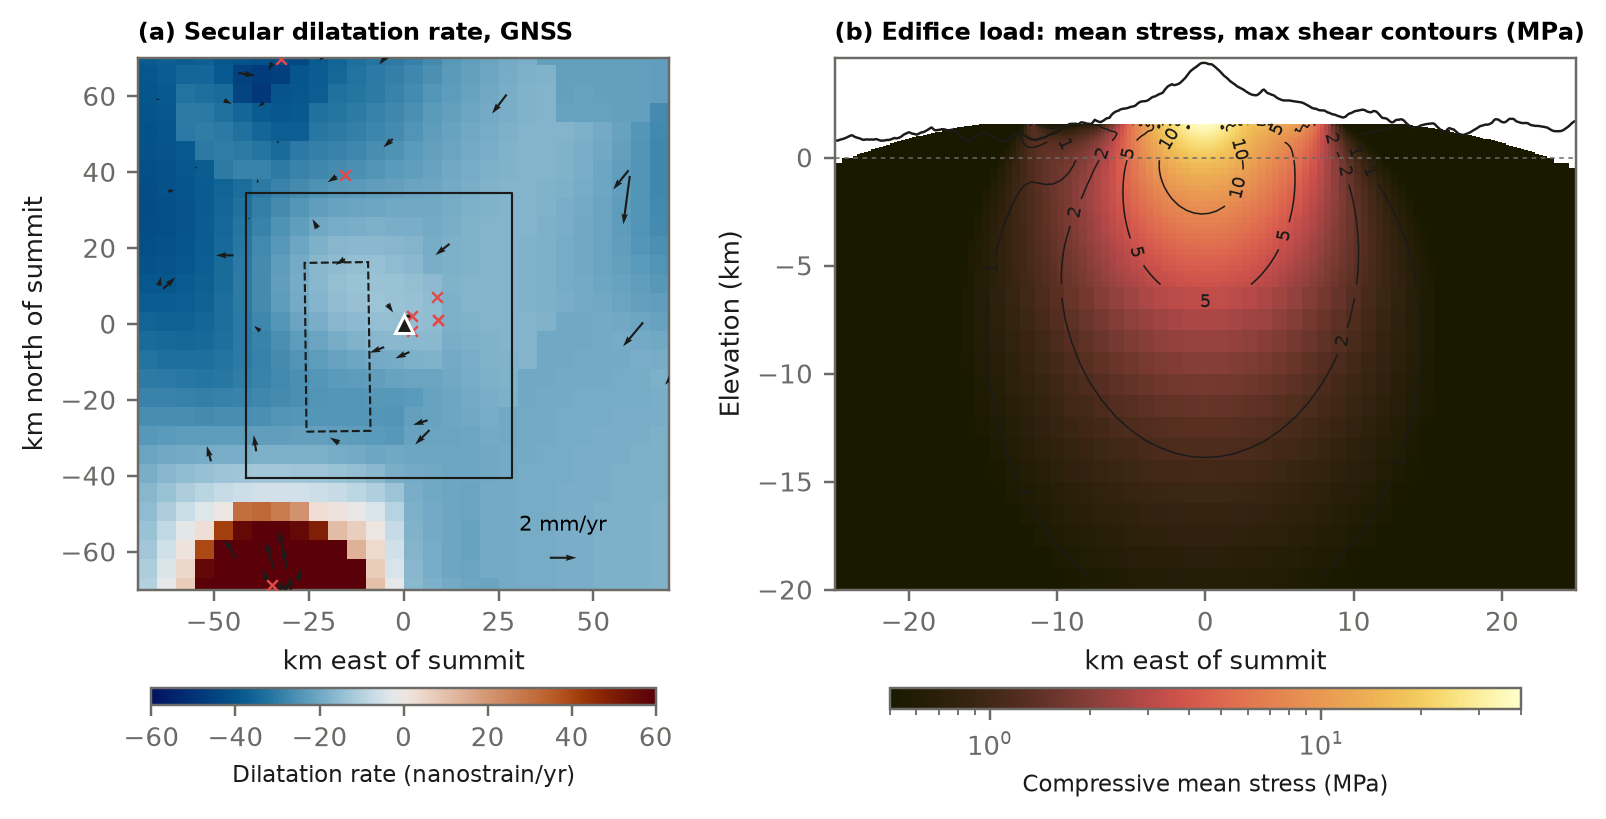
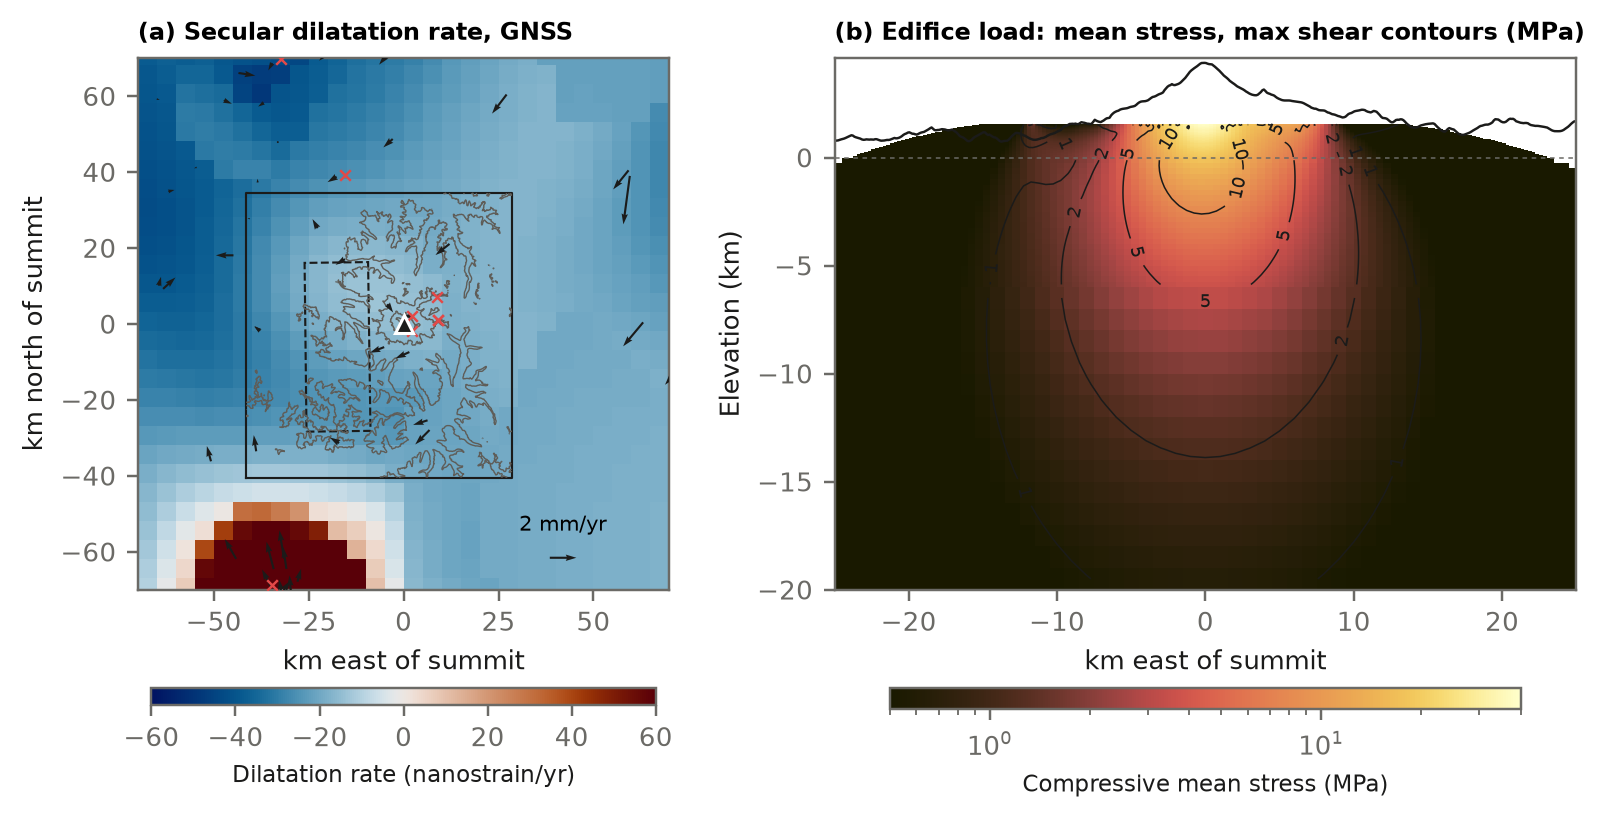
Figures: topography contours on the strain maps, contrast in the mass-movement map
Strain maps (Figs. 15-18) get thin grey elevation contours from the model surface.
The mass-movement map draws unknown-type events in charcoal on a lighter hillshade,
with framed legends.

Changed region(s): [[0.1557, 0.2442, 0.3113, 0.58]]

diff --git a/src/rainier3d/report/figures.py b/src/rainier3d/report/figures.py
@@ -740,6 +740,7 @@ def fig_strain(grid_nc, vel_csv, load_tree, tree, dom, gnss_cfg, path):
     )
     a.quiverkey(q, 0.8, 0.06, 2, "2 mm/yr", labelpos="N", fontproperties={"size": 7})
     a.scatter(rel[~ok, 0], rel[~ok, 1], marker="x", s=12, lw=0.8, color="#e34948", zorder=3)
+    _topo(a, dom, step_m=1000)
     a.plot(0, 0, marker="^", ms=6, color=INK, mec="white", zorder=4)
     a.set_xlim(-70, 70)
     a.set_ylim(-70, 70)
@@ -838,6 +839,25 @@ def _km(dom, x, y):
     return (np.asarray(x) - sx) / 1e3, (np.asarray(y) - sy) / 1e3
 
 
+_ELEV = {}
+
+
+def _topo(ax, dom, step_m=500, zorder=2.5):
+    """Thin topography contours (every step_m, darker every 1000 m) in km from the summit, from the model's
+    surface elevation, so that map views show where the edifice is."""
+    key = str(dom.path("processed"))
+    if key not in _ELEV:
+        _ELEV[key] = (
+            open_tree(dom.path("processed") / "model.zarr")["surface"].to_dataset()["elevation"].load()
+        )
+    e = _ELEV[key]
+    X, Y = _km(dom, *np.meshgrid(e.x.values, e.y.values))
+    lv = np.arange(step_m, 4500, step_m)
+    major = lv[lv % 1000 == 0]
+    ax.contour(X, Y, e.values, levels=lv[lv % 1000 != 0], colors="#8c8a84", linewidths=0.3, zorder=zorder)
+    ax.contour(X, Y, e.values, levels=major, colors="#5f5d58", linewidths=0.45, zorder=zorder)
+
+
 def fig_strain_wrsz(ds, dom, wrsz_xy, polygon_xy, path, spacing_m=5000):
     """(a) Maximum horizontal shear strain rate with the axes of maximum shortening; (b) right-lateral shear
     strain rate on vertical planes parallel to the WRSZ. GNSS field, the same at every depth (S25)."""
@@ -867,6 +887,7 @@ def fig_strain_wrsz(ds, dom, wrsz_xy, polygon_xy, path, spacing_m=5000):
         a = lev[var].values * 1e9
         kw = {"norm": norm} if norm else {"vmin": lim[0], "vmax": lim[1]}
         im = ax.pcolormesh(X, Y, a, cmap=cmap, shading="nearest", rasterized=True, **kw)
+        _topo(ax, dom, step_m=1000)
         ax.scatter(wx, wy, s=0.6, color=INK, alpha=0.35, lw=0, zorder=2)
         ax.fill(px, py, fill=False, ec=INK, lw=0.8, ls="--", zorder=3)
         _bars(
@@ -940,6 +961,7 @@ def fig_strain_edifice(ds, dom, tree, events, sel, path, z_slice=1000.0, half_km
         linewidths=1.0,
         zorder=4,
     )
+    _topo(a, dom)
     a.scatter(ekx[near], eky[near], s=5, facecolor="white", edgecolor=INK, lw=0.4, zorder=5)
     a.plot(0, 0, marker="^", ms=7, color=INK, mec="white", zorder=6)
     a.set_xlim(-half_km, half_km)
@@ -1058,6 +1080,7 @@ def fig_strain_bars_depth(ds, dom, path, elevations=(1000, 0, -2000, -5000, -100
         ok = np.isfinite(segs).all(axis=(1, 2)) & np.isfinite(vals)
         lc = LineCollection(segs[ok], array=vals[ok], cmap=cmc.batlow, norm=norm, linewidths=1.1, zorder=3)
         ax.add_collection(lc)
+        _topo(ax, dom, zorder=1)
         ax.plot(0, 0, marker="^", ms=5, color=INK, mec="white", zorder=5)
         ax.set_xlim(-half_km, half_km)
         ax.set_ylim(-half_km, half_km)
@@ -1094,7 +1117,7 @@ def fig_mass_movements(tree, flows, events, faults, zones, path):
     km = lambda g: g.affine_transform([1e-3, 0, 0, 1e-3, 0, 0])  # noqa: E731
     fig, axs = plt.subplots(1, 2, figsize=(7.2, 4.3), sharey=True, constrained_layout=True)
     for ax in axs:
-        ax.imshow(0.35 + 0.6 * hs, origin="lower", extent=ext, cmap="gray", vmin=0, vmax=1)
+        ax.imshow(0.6 + 0.4 * hs, origin="lower", extent=ext, cmap="gray", vmin=0, vmax=1)
         ax.set_xlim(ext[:2])
         ax.set_ylim(ext[2:])
         ax.set_aspect("equal")
@@ -1113,7 +1136,9 @@ def fig_mass_movements(tree, flows, events, faults, zones, path):
         km(faults[key].geometry).plot(ax=ax, color="k", lw=lw)
     handles.append(plt.Line2D([], [], color="k", lw=0.5, label="Faults (1:100k)"))
     handles.append(plt.Line2D([], [], color="k", lw=1.2, label="Quaternary faults, zones"))
-    ax.legend(handles=handles, loc="lower left", fontsize=6, framealpha=0.85)
+    ax.legend(
+        handles=handles, loc="lower left", fontsize=6, frameon=True, framealpha=0.92, edgecolor=GRID
+    ).set_zorder(10)
     ax.set_ylabel("UTM 10N northing (km)")
     ax.set_title("(a) Flow deposits, hazard zones, faults", fontsize=8, loc="left")
     ax = axs[1]
@@ -1122,7 +1147,8 @@ def fig_mass_movements(tree, flows, events, faults, zones, path):
     from matplotlib.path import Path as MPath
 
     chev = MPath([(-0.94, 0.8), (-0.4, 0.8), (0, 0.28), (0.4, 0.8), (0.94, 0.8), (0, -0.9), (-0.94, 0.8)])
-    for key, label, c in EVENT_CLASSES:
+    # the viewer's light grey for unknown types disappears on the hillshade: charcoal in print
+    for key, label, c in ((k, lab, "#3b3a36" if k == "complex" else c) for k, lab, c in EVENT_CLASSES):
         n = int((events.cls == key).sum())
         for seismic in (False, True):
             e = events[(events.cls == key) & ((events.located == "seismic") == seismic)]
@@ -1133,8 +1159,8 @@ def fig_mass_movements(tree, flows, events, faults, zones, path):
                     s=45 if seismic else 9,
                     marker=chev,
                     color=c,
-                    edgecolor="w" if seismic else "none",
-                    lw=0.6,
+                    edgecolor="w" if seismic else INK,
+                    lw=0.6 if seismic else 0.15,
                     zorder=4 if seismic else 3,
                 )
         if n:
@@ -1146,13 +1172,15 @@ def fig_mass_movements(tree, flows, events, faults, zones, path):
             ls="",
             marker=chev,
             ms=9,
-            mfc="0.5",
-            mec="w",
-            mew=0.6,
+            mfc="none",
+            mec=INK,
+            mew=0.8,
             label=f"Seismically recorded, larger ({int((events.located == 'seismic').sum())})",
         )
     )
-    ax.legend(handles=handles, loc="lower left", fontsize=6, framealpha=0.85)
+    ax.legend(
+        handles=handles, loc="lower left", fontsize=6, frameon=True, framealpha=0.92, edgecolor=GRID
+    ).set_zorder(10)
     ax.set_title("(b) Landslides and recorded events", fontsize=8, loc="left")
     fig.savefig(path, dpi=200)
     plt.close(fig)
